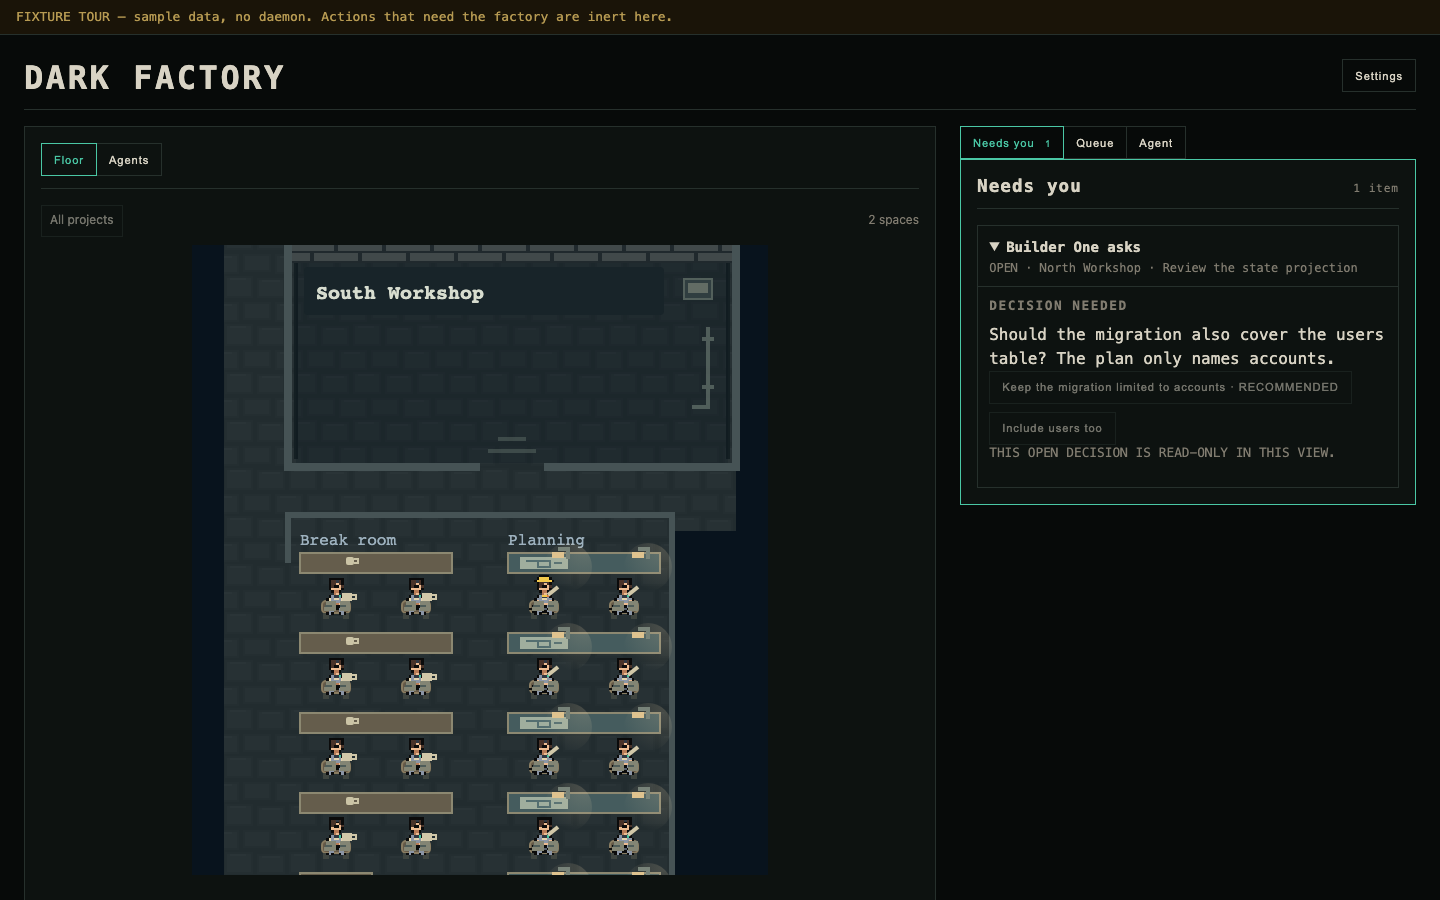
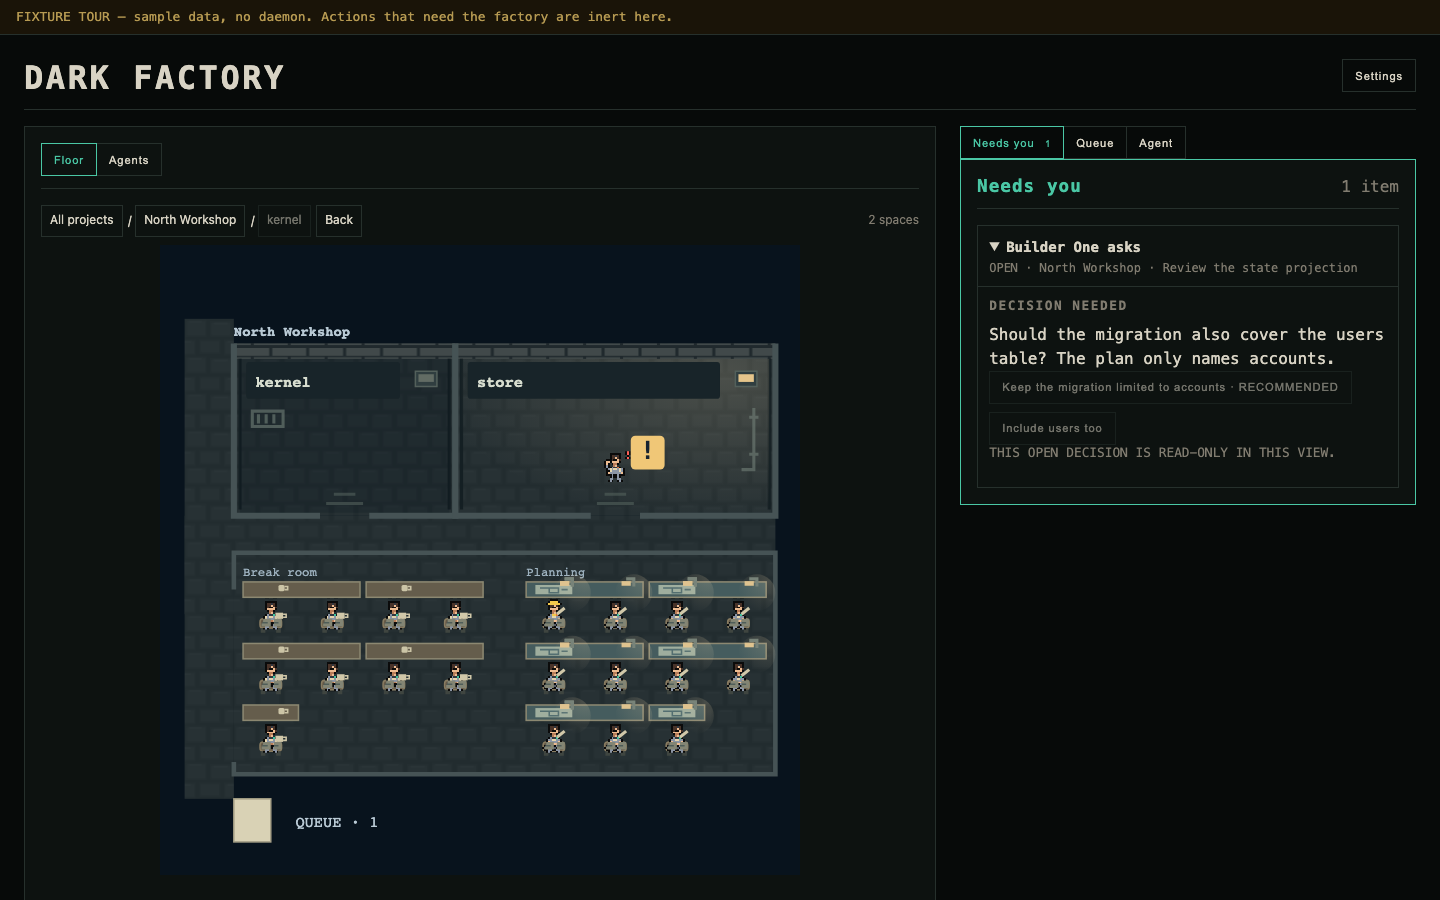
Show codebase rooms and a decision in README demo screenshots

diff --git a/README.md b/README.md
@@ -8,11 +8,11 @@ Keep parallel work in one place instead of juggling separate agent sessions.
 
 <picture>
   <source media="(max-width: 600px)" srcset="docs/assets/factory-floor-demo-mobile.png">
-  <img src="docs/assets/factory-floor-demo.png" alt="Dark Factory console with sample workers on the factory floor and a Needs You decision open">
+  <img src="docs/assets/factory-floor-demo.png" alt="Dark Factory demo showing kernel and store rooms, sample workers, queued work, and an open Needs You decision">
 </picture>
 
-*Actual console with labelled demo data: sample workers and a synthetic
-Needs You decision. No daemon is connected.*
+*Actual console with labelled demo data: sample workers, codebase rooms, and a
+synthetic Needs You decision. No daemon is connected.*
 
 [Get started](#quick-start) · [Website](https://www.darkfactory.build) ·
 [Console (requires pairing)](https://app.darkfactory.build) ·
